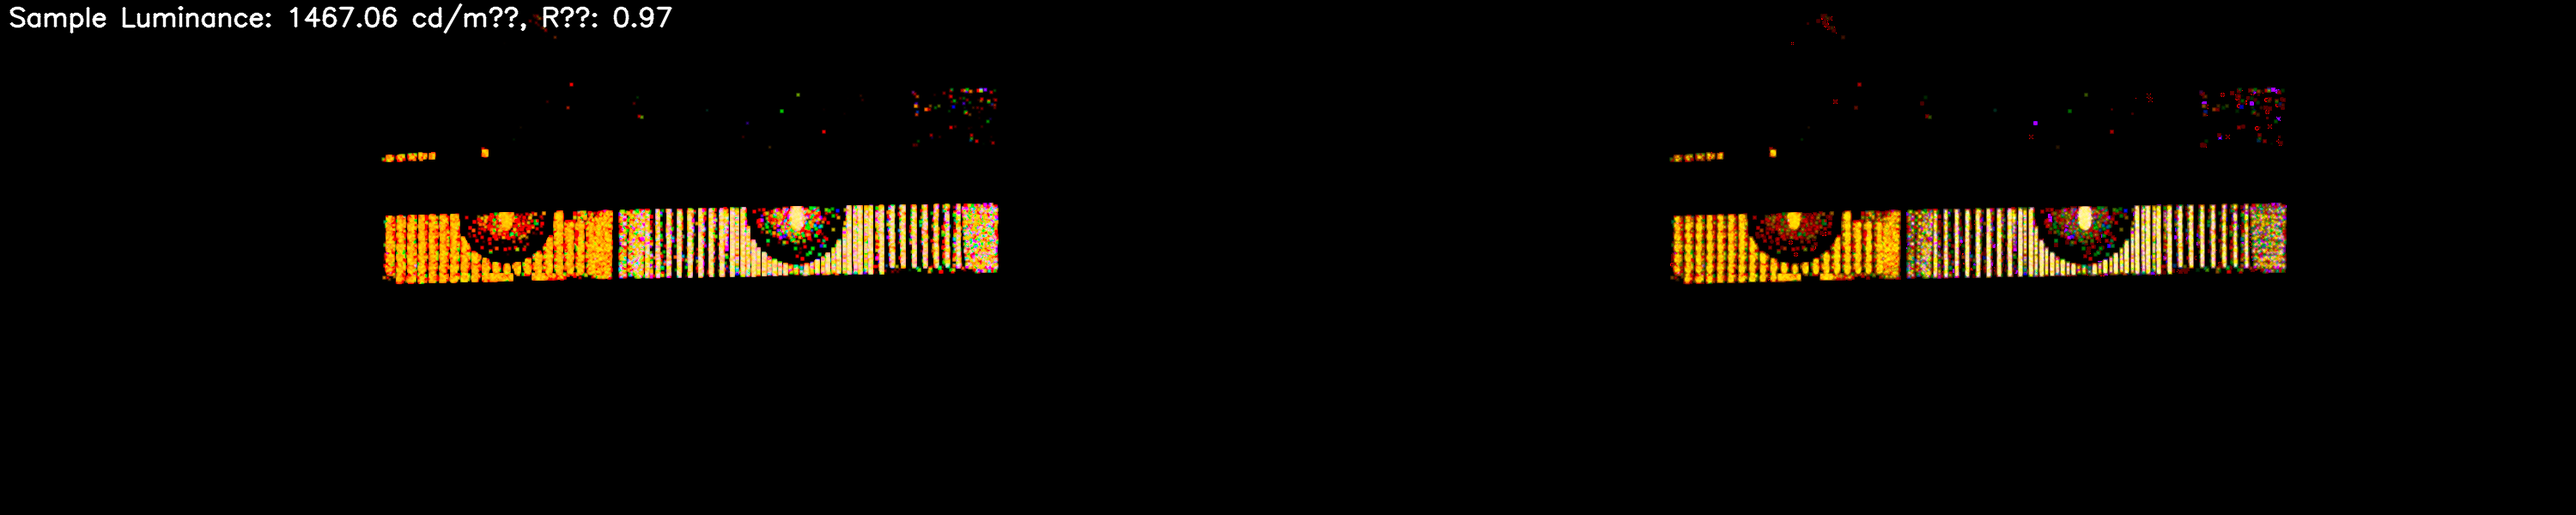
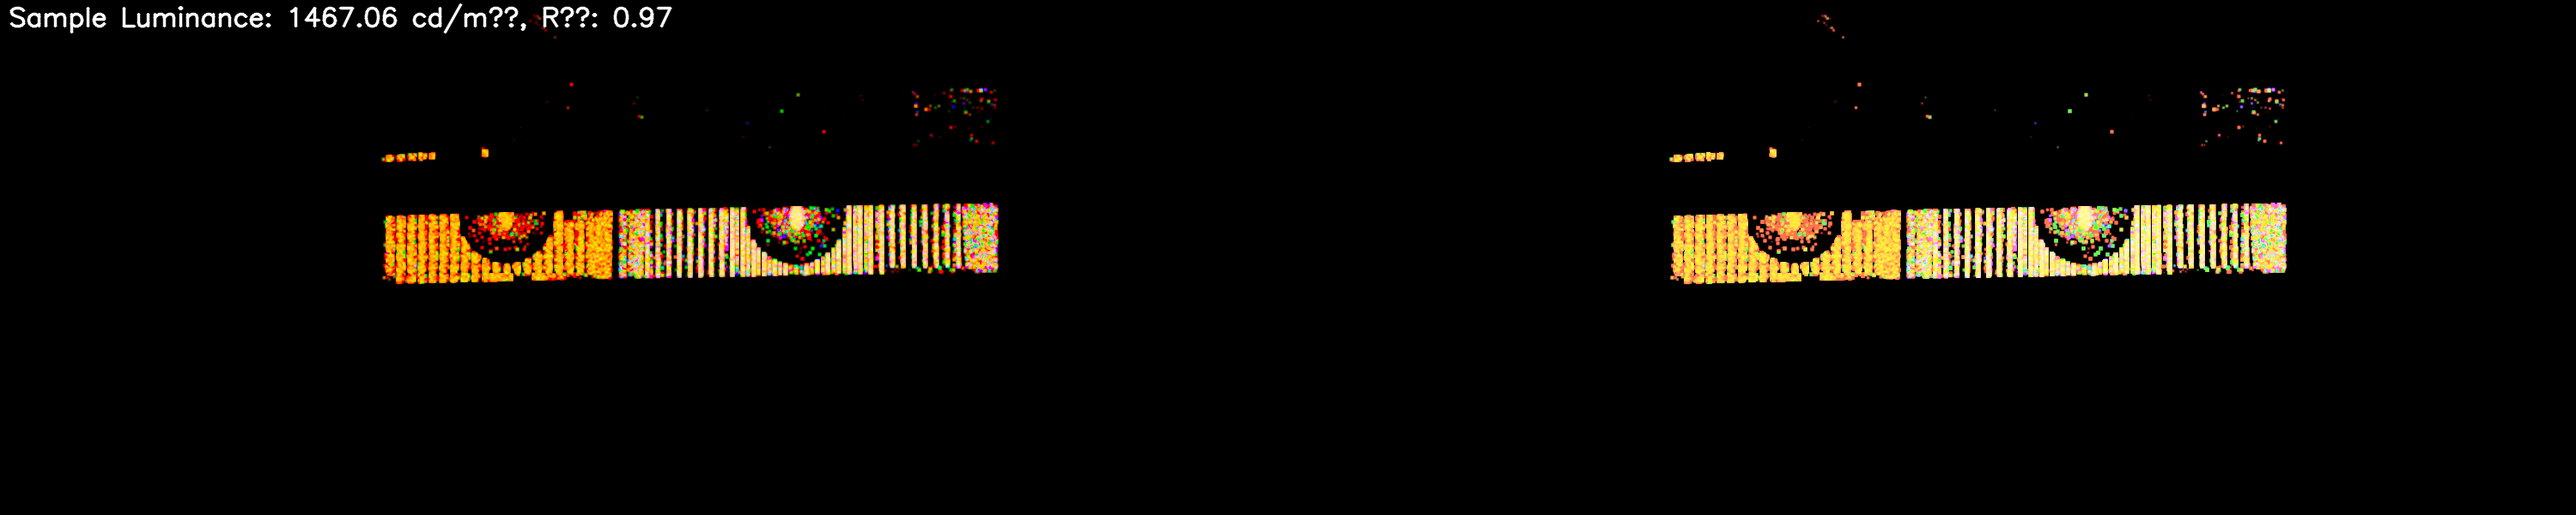
update

Changed region(s): [[0.651, 0.39, 0.899, 0.57], [0.837, 0.15, 0.899, 0.21], [0.651, 0.3, 0.682, 0.33]]

diff --git a/HumanEyesAdaptator.py b/HumanEyesAdaptator.py
@@ -100,24 +100,22 @@ class HumanEyesAdaptator:
                 image = RawImage()
                 image.loadRGB(y_file)
                 
-                adjusted_img = np.zeros_like(original_img)
-                adjusted_luminance = self.apply_brightness_adjustment(self.X, self.X_Ave_values[i], k, b)
+                # Convert original image to LAB color space
+                lab_original = cv.cvtColor(original_img, cv.COLOR_BGR2LAB)
+                l, a, b_ch = cv.split(lab_original)
+                
+                # Apply brightness adjustment to the L channel
+                adjusted_luminance = self.apply_brightness_adjustment(l, self.X_Ave_values[i], k, b)
                 
                 # Normalize adjusted luminance to 0-255 range
                 adjusted_luminance = ((adjusted_luminance - adjusted_luminance.min()) / 
                                       (adjusted_luminance.max() - adjusted_luminance.min()) * 255).astype(np.uint8)
                 
-                # Calculate the ratio of adjusted luminance to the original luminance
-                original_luminance = cv.cvtColor(original_img, cv.COLOR_BGR2LAB)[:, :, 0]
-                ratio = adjusted_luminance / (original_luminance + 1e-10)
+                # Merge the adjusted L channel back with the original a and b channels
+                lab_adjusted = cv.merge([adjusted_luminance, a, b_ch])
                 
-                # Apply the ratio to each channel
-                for channel in range(3):
-                    adjusted_img[:, :, channel] = (original_img[:, :, channel].astype(float) * ratio).clip(0, 255).astype(np.uint8)
-                
-                # Ensure both images have the same size
-                if original_img.shape != adjusted_img.shape:
-                    adjusted_img = cv.resize(adjusted_img, (original_img.shape[1], original_img.shape[0]))
+                # Convert back to BGR color space
+                adjusted_img = cv.cvtColor(lab_adjusted, cv.COLOR_LAB2BGR)
                 
                 # Combine images side by side
                 comparison_img = np.hstack((original_img, adjusted_img))
@@ -135,8 +133,6 @@ class HumanEyesAdaptator:
                 print(f"Comparison image saved to {output_path}")
             except Exception as e:
                 print(f"Error processing file {y_file}: {e}")
-
-# Example usage:
 
 current_path = os.path.abspath(os.path.dirname(__file__))
 
